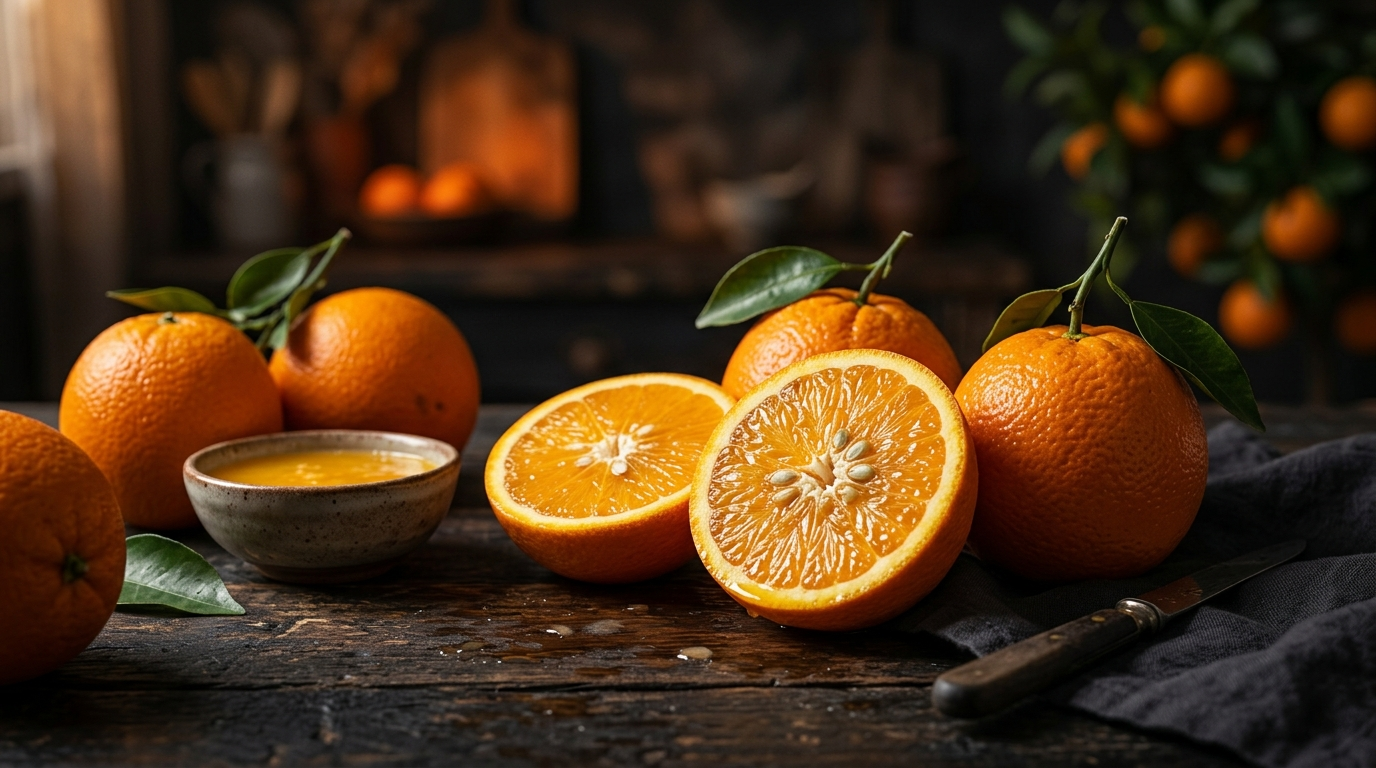
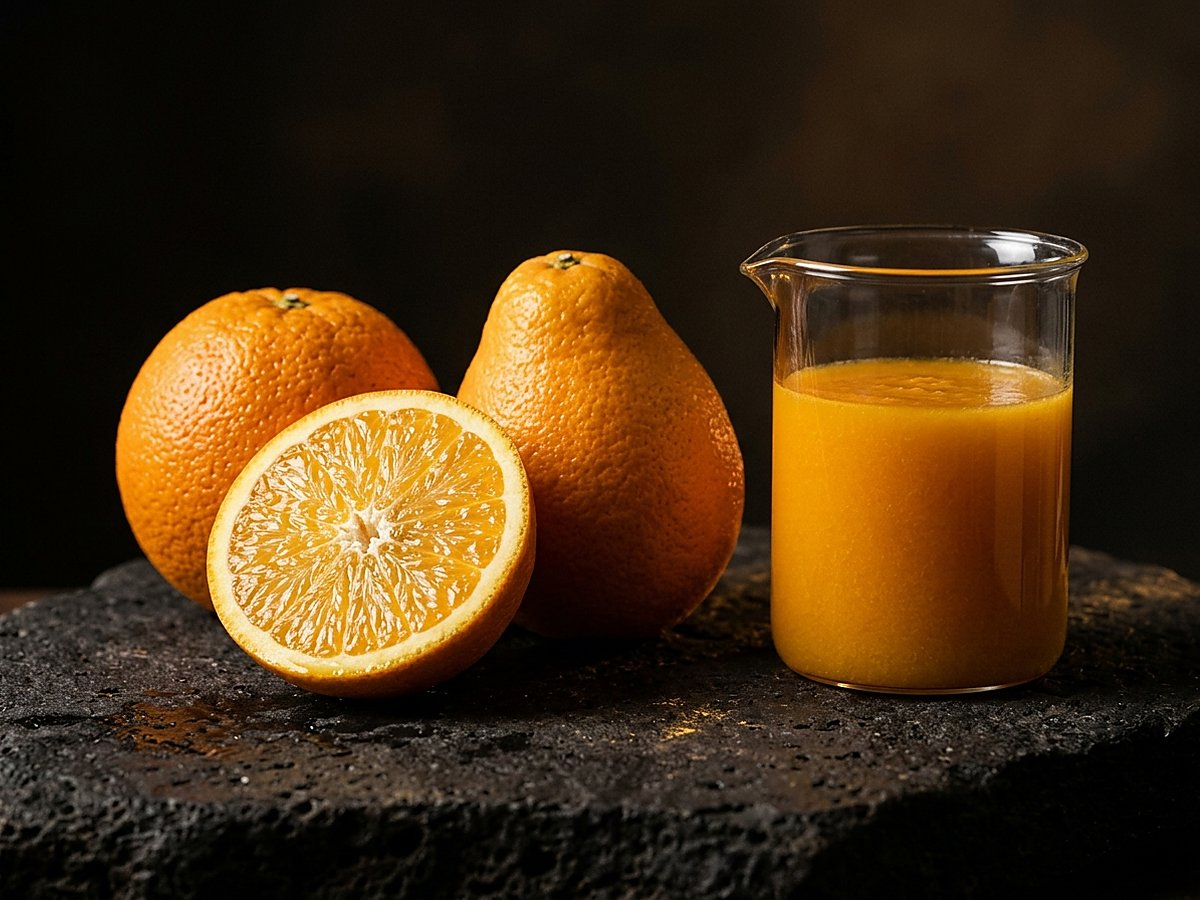
ajuste visual melhorias imagens

diff --git a/client/src/lib/produtos.ts b/client/src/lib/produtos.ts
@@ -151,7 +151,7 @@ const concentradoDeUva: Produto = {
   ],
   imagem: "/images/produtos/hero-uva.jpg",
   imagemAlt:
-    "Cachos de uva Isabel e Concord maduros em videira, com folhas verdes ao fundo — ingrediente para o Concentrado de Uva da Tecnovin",
+    "Cachos de uvas Isabel e Concord com pruína natural ao lado de concentrado de uva rubi-violeta denso em copo borossilicato sobre ardósia escura — Tecnovin",
   detalhesVisuais: {
     materiaPrima: {
       imagem: "/images/produtos/detalhes/detalhe-uva-materia-prima.jpg",
@@ -240,7 +240,7 @@ const concentradoDeMaca: Produto = {
   ],
   imagem: "/images/produtos/hero-maca.jpg",
   imagemAlt:
-    "Maçãs vermelhas e amarelas frescas em campo — ingrediente para o Concentrado de Maçã da Tecnovin",
+    "Maçãs Gala e Fuji frescas com corte transversal ao lado de concentrado de maçã clarificado 70° Brix âmbar-dourado em béquer de vidro — Tecnovin",
   detalhesVisuais: {
     materiaPrima: {
       imagem: "/images/produtos/detalhes/detalhe-maca-materia-prima.jpg",
@@ -331,7 +331,7 @@ const concentradoDeLaranja: Produto = {
   ],
   imagem: "/images/produtos/hero-laranja.jpg",
   imagemAlt:
-    "Laranjas Valência frescas cortadas ao meio sobre superfície de madeira — ingrediente para o Concentrado de Laranja Congelado da Tecnovin",
+    "Laranjas Valência maduras com corte transversal ao lado de concentrado congelado de laranja aveludado em copo sobre ardósia escura — Tecnovin",
   detalhesVisuais: {
     materiaPrima: {
       imagem: "/images/produtos/detalhes/detalhe-laranja-materia-prima.jpg",
@@ -422,7 +422,7 @@ const concentradoDeLimao: Produto = {
   ],
   imagem: "/images/produtos/hero-limao.jpg",
   imagemAlt:
-    "Limões Siciliano e Tahiti frescos, um cortado ao meio revelando a polpa — ingrediente para o Concentrado de Limão da Tecnovin",
+    "Limão Siciliano e Lima Tahiti com corte transversal exibindo polpa cristalina ao lado de concentrado cítrico opalescente sobre ardósia — Tecnovin",
   detalhesVisuais: {
     materiaPrima: {
       imagem: "/images/produtos/detalhes/detalhe-limao-materia-prima.jpg",
@@ -491,7 +491,7 @@ const concentradoDeAcerola: Produto = {
   ],
   imagem: "/images/produtos/hero-acerola.jpg",
   imagemAlt:
-    "Cachos de acerola vermelha e madura em galhos verdes — ingrediente para o Concentrado de Acerola da Tecnovin",
+    "Acerolas frescas maduras com folhas botânicas ao lado de concentrado escarlate-terracota aveludado em vidro sobre ardósia escura — Tecnovin",
   detalhesVisuais: {
     materiaPrima: {
       imagem: "/images/produtos/detalhes/detalhe-acerola-materia-prima.jpg",
@@ -559,7 +559,7 @@ const concentradoDeAbacaxi: Produto = {
   ],
   imagem: "/images/produtos/hero-abacaxi.jpg",
   imagemAlt:
-    "Abacaxi brasileiro maduro inteiro e fatiado sobre fundo verde tropical — ingrediente para o Concentrado de Abacaxi da Tecnovin",
+    "Abacaxi brasileiro maduro inteiro e em fatias douradas sobre placa mineral de ardósia escura — ingrediente para Concentrado de Abacaxi da Tecnovin",
   detalhesVisuais: {
     materiaPrima: {
       imagem: "/images/produtos/detalhes/detalhe-abacaxi-materia-prima.jpg",

diff --git a/client/src/pages/Home.tsx b/client/src/pages/Home.tsx
@@ -75,7 +75,7 @@ const products = [
     tone: "wine",
     image: "/images/produtos/hero-uva.jpg",
     imageAlt:
-      "Cachos de uva Isabel e Concord maduros em videira, com folhas verdes ao fundo — ingrediente para o Concentrado de Uva da Tecnovin",
+      "Cachos de uvas Isabel e Concord com pruína natural ao lado de concentrado de uva rubi-violeta denso em copo borossilicato sobre ardósia escura — Tecnovin",
     description:
       "Concentrado de suco de uva para aplicações que pedem cor, corpo e identidade.",
   },
@@ -86,7 +86,7 @@ const products = [
     tone: "olive",
     image: "/images/produtos/hero-maca.jpg",
     imageAlt:
-      "Maçãs vermelhas e amarelas frescas em campo — ingrediente para o Concentrado de Maçã da Tecnovin",
+      "Maçãs Gala e Fuji frescas com corte transversal ao lado de concentrado de maçã clarificado 70° Brix âmbar-dourado em béquer de vidro — Tecnovin",
     description:
       "Uma base versátil para bebidas, blends e formulações de sabor equilibrado.",
   },
@@ -97,7 +97,7 @@ const products = [
     tone: "amber",
     image: "/images/produtos/hero-laranja.jpg",
     imageAlt:
-      "Laranjas Valência frescas cortadas ao meio sobre superfície de madeira — ingrediente para o Concentrado de Laranja Congelado da Tecnovin",
+      "Laranjas Valência maduras com corte transversal ao lado de concentrado congelado de laranja aveludado em copo sobre ardósia escura — Tecnovin",
     description:
       "Concentrado congelado de laranja para cadeias que valorizam consistência.",
   },
@@ -108,7 +108,7 @@ const products = [
     tone: "lime",
     image: "/images/produtos/hero-limao.jpg",
     imageAlt:
-      "Limões Siciliano e Tahiti frescos, um cortado ao meio revelando a polpa — ingrediente para o Concentrado de Limão da Tecnovin",
+      "Limão Siciliano e Lima Tahiti com corte transversal exibindo polpa cristalina ao lado de concentrado cítrico opalescente sobre ardósia — Tecnovin",
     description:
       "Acidez e frescor em um ingrediente pensado para soluções de alto giro.",
   },
@@ -119,7 +119,7 @@ const products = [
     tone: "coral",
     image: "/images/produtos/hero-acerola.jpg",
     imageAlt:
-      "Cachos de acerola vermelha e madura em galhos verdes — ingrediente para o Concentrado de Acerola da Tecnovin",
+      "Acerolas frescas maduras com folhas botânicas ao lado de concentrado escarlate-terracota aveludado em vidro sobre ardósia escura — Tecnovin",
     description:
       "Perfil vibrante para bebidas, alimentos e combinações funcionais.",
   },
@@ -130,7 +130,7 @@ const products = [
     tone: "gold",
     image: "/images/produtos/hero-abacaxi.jpg",
     imageAlt:
-      "Abacaxi brasileiro maduro inteiro e fatiado sobre fundo verde tropical — ingrediente para o Concentrado de Abacaxi da Tecnovin",
+      "Abacaxi brasileiro maduro inteiro e em fatias douradas sobre placa mineral de ardósia escura — ingrediente para Concentrado de Abacaxi da Tecnovin",
     description:
       "A assinatura tropical que amplia possibilidades de formulação.",
   },

diff --git a/plans/plan-013-otimizacao-editorial-imagens-produtos.md b/plans/plan-013-otimizacao-editorial-imagens-produtos.md
@@ -1,0 +1,45 @@
+# Plan 013 — Otimização e Unificação Editorial das Imagens de Produtos (Hero Images)
+
+## Contexto e Diagnóstico
+
+A seção "Portfólio para criar / A fruta em sua forma mais versátil" na Home (`client/src/pages/Home.tsx`) e as páginas individuais de produtos (`client/src/pages/Produto.tsx` / `client/src/lib/produtos.ts`) apresentavam inconsistências críticas de direção de arte:
+
+1. **Disparidade de Iluminação e Cenário:**
+   - Card 02 (Maçã): Foto externa em pomar rústico com clarão solar estourado (*golden hour flare*) e caixote de feira, destoando totalmente do estúdio escuro.
+   - Card 01 (Uva) e Card 05 (Acerola): Galhos escuros em ambientes rústicos desiguais.
+   - Card 03 (Laranja): Cozinha com tábua de madeira rústica e tigela cerâmica.
+   - Card 04 (Limão) e Card 06 (Abacaxi): Ardósia escura de estúdio.
+   Essa mistura quebrava a estética canônica clássica e minimalista (`skills/classic-minimalist-ui/SKILL.md`).
+
+2. **Desconexão com o Negócio B2B da Tecnovin:**
+   - As fotos anteriores mostravam apenas frutas in natura de mercearia, sem representar o produto industrial nobre da empresa: **sucos concentrados de alto Brix (65–70° Brix)**, viscosidade, pureza analítica e vidraria técnica de alta gastronomia / laboratório.
+
+3. **Integração com a UI:**
+   - O rodapé de cada card possui um degradê escuro (`product-card-media__overlay`) sobre fundo ameixa/vinho. Fundos claros (como o céu do pomar de maçã) causavam cortes bruscos.
+
+## Skills Acionadas
+
+- `editorial-product-food-photography` (Direção de arte de alimentos B2B, botânica, escala 1 e 2).
+- `photorealistic-prompt-engineering` (Sistemas ópticos Hasselblad, subsurface scattering, iluminação chiaroscuro e restrições anti-IA).
+- `ai-image-qa-and-postprocessing` (Auditoria em 12 pontos, micro-sharpening e pipeline WebP/JPG).
+- `classic-minimalist-ui` (Consistência cromática com paleta Tecnovin `#FAF8F5`, `#1C1917`, `#5C1A2B`, `#C5A059`).
+
+## Etapas de Execução
+
+- [x] **Diagnóstico das Imagens Atuais:** Identificação das inconsistências estéticas e botânicas.
+- [x] **Geração Editorial com Subagente `image-generator`:**
+  - Uva (GJC): Uvas Isabel/Concord com pruína aveludada + concentrado rubi-violeta denso em copo borossilicato + ardósia vulcânica escura.
+  - Maçã (AJC): Maçãs Gala/Fuji com lenticelas + corte com sementes + concentrado límpido âmbar-dourado (70° Brix) + ardósia vulcânica escura.
+  - Laranja (FCOJ): Laranjas Valência com glândulas de óleo + gomos suculentos + concentrado denso solar-orange + ardósia escura.
+  - Limão (LEMON JC): Limão Siciliano + Lima Tahiti + corte transversal cristalino + concentrado opalescente + ardósia escura.
+  - Acerola (ACEROLA JC): Acerolas trilobadas carmesim + corte + concentrado escarlate-terracota + ardósia escura.
+  - Abacaxi (PINEAPPLE JC): Harmonização tonal e enquadramento focado na ardósia mineral e polpa dourada.
+- [x] **Inspeção de QA em 12 Pontos:** Validação multimodal (`read_file`) eliminando textos, números de béquer, deformações e saturação excessiva.
+- [ ] **Pós-Processamento e Otimização Dupla (WebP + JPG):**
+  - Redimensionamento 4:3 (1200x900px).
+  - Micro-sharpening óptico para realçar porosidade e grão orgânico.
+  - Exportação WebP (q=82) e JPG otimizado (q=85).
+- [ ] **Integração e Validação no Código:**
+  - Atualização dos metadados `imageAlt` em `client/src/pages/Home.tsx` e `client/src/lib/produtos.ts`.
+  - Execução de `pnpm check`, `pnpm build` e visualização.
+
